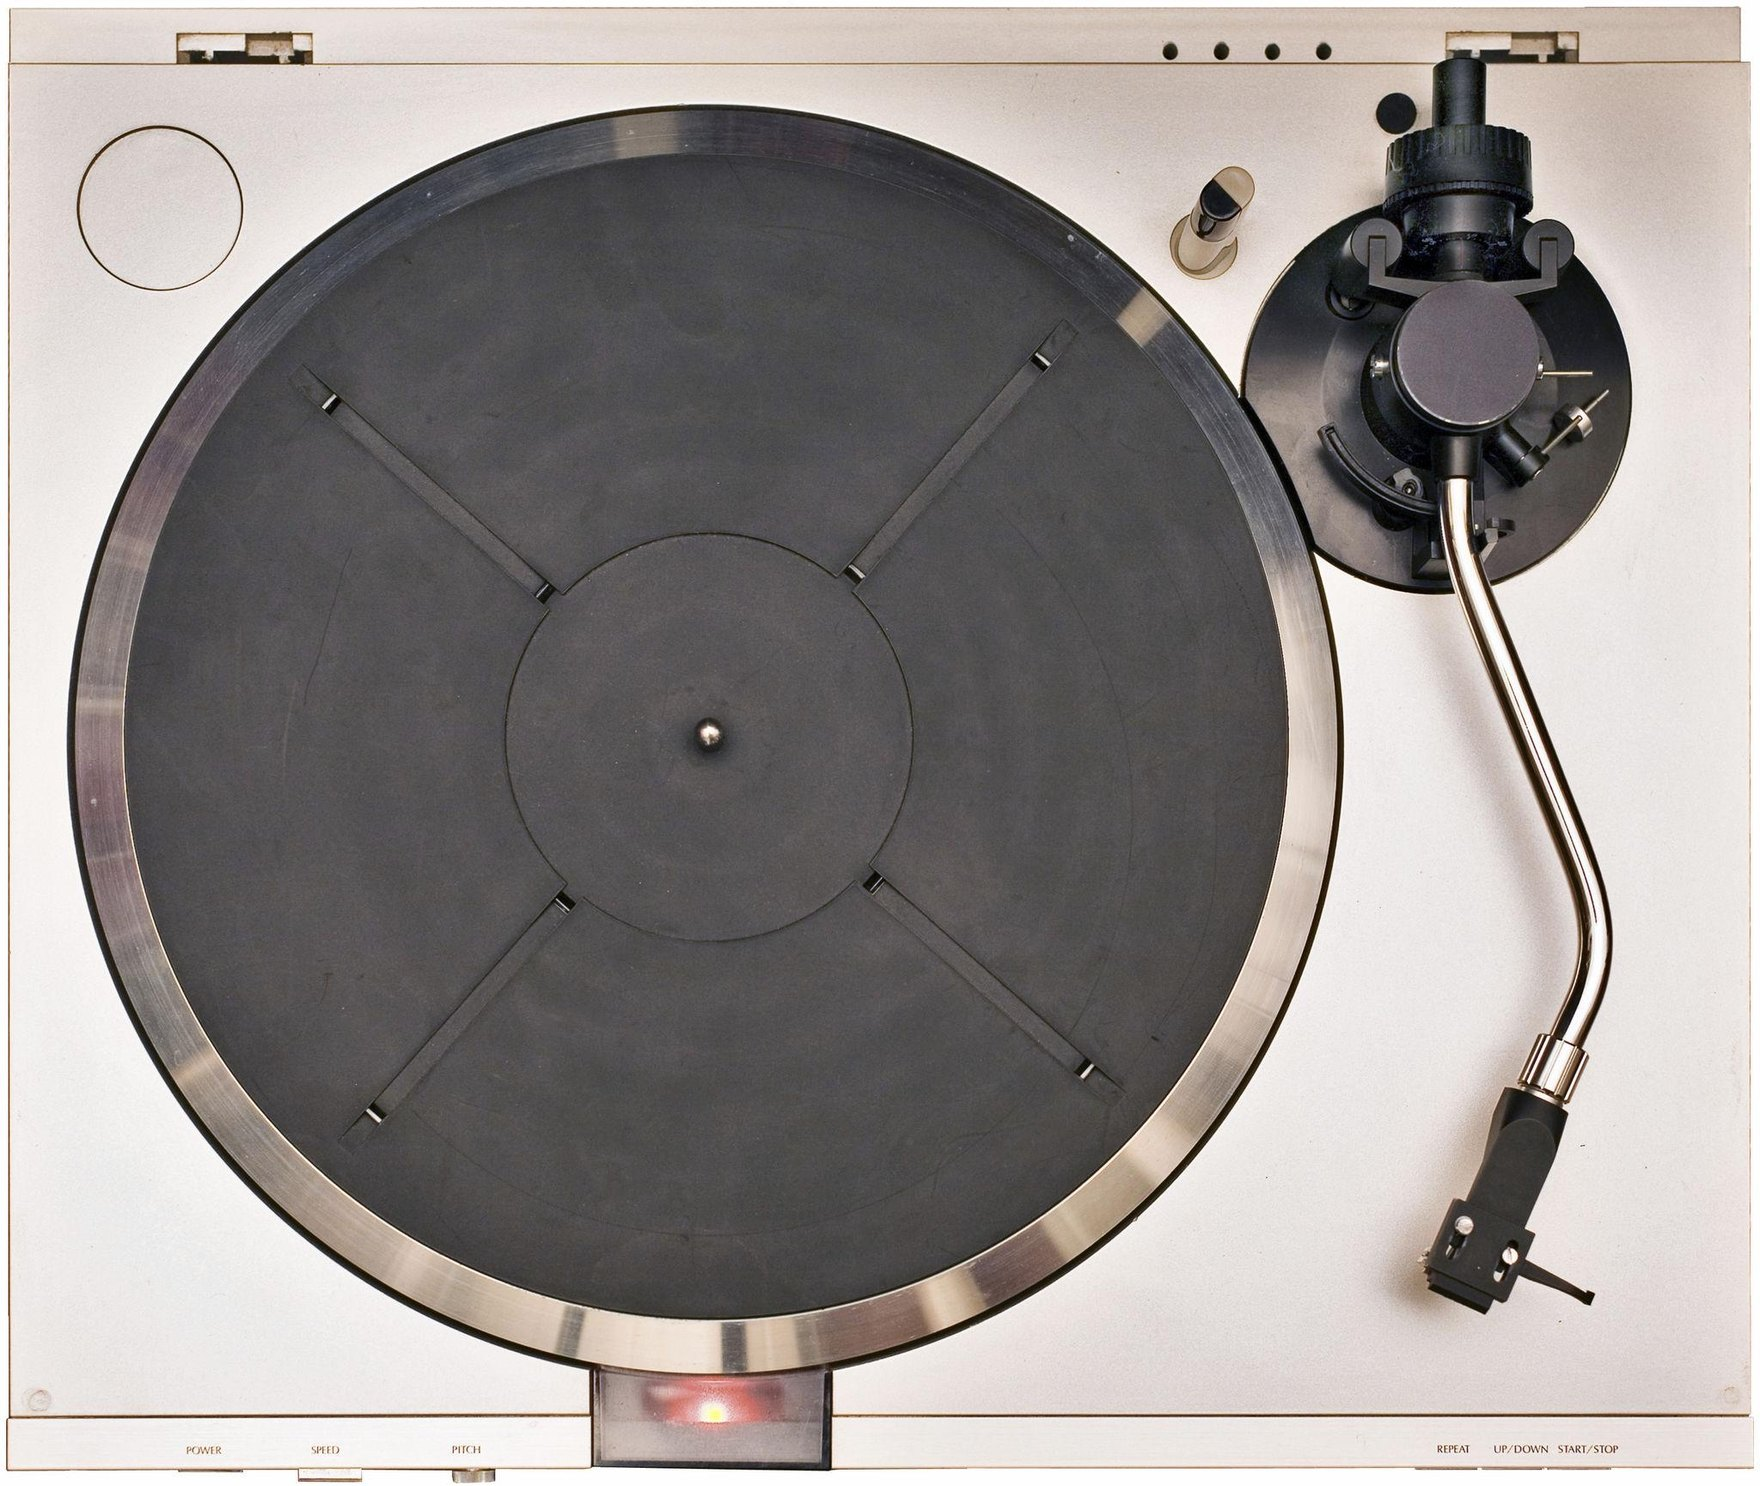
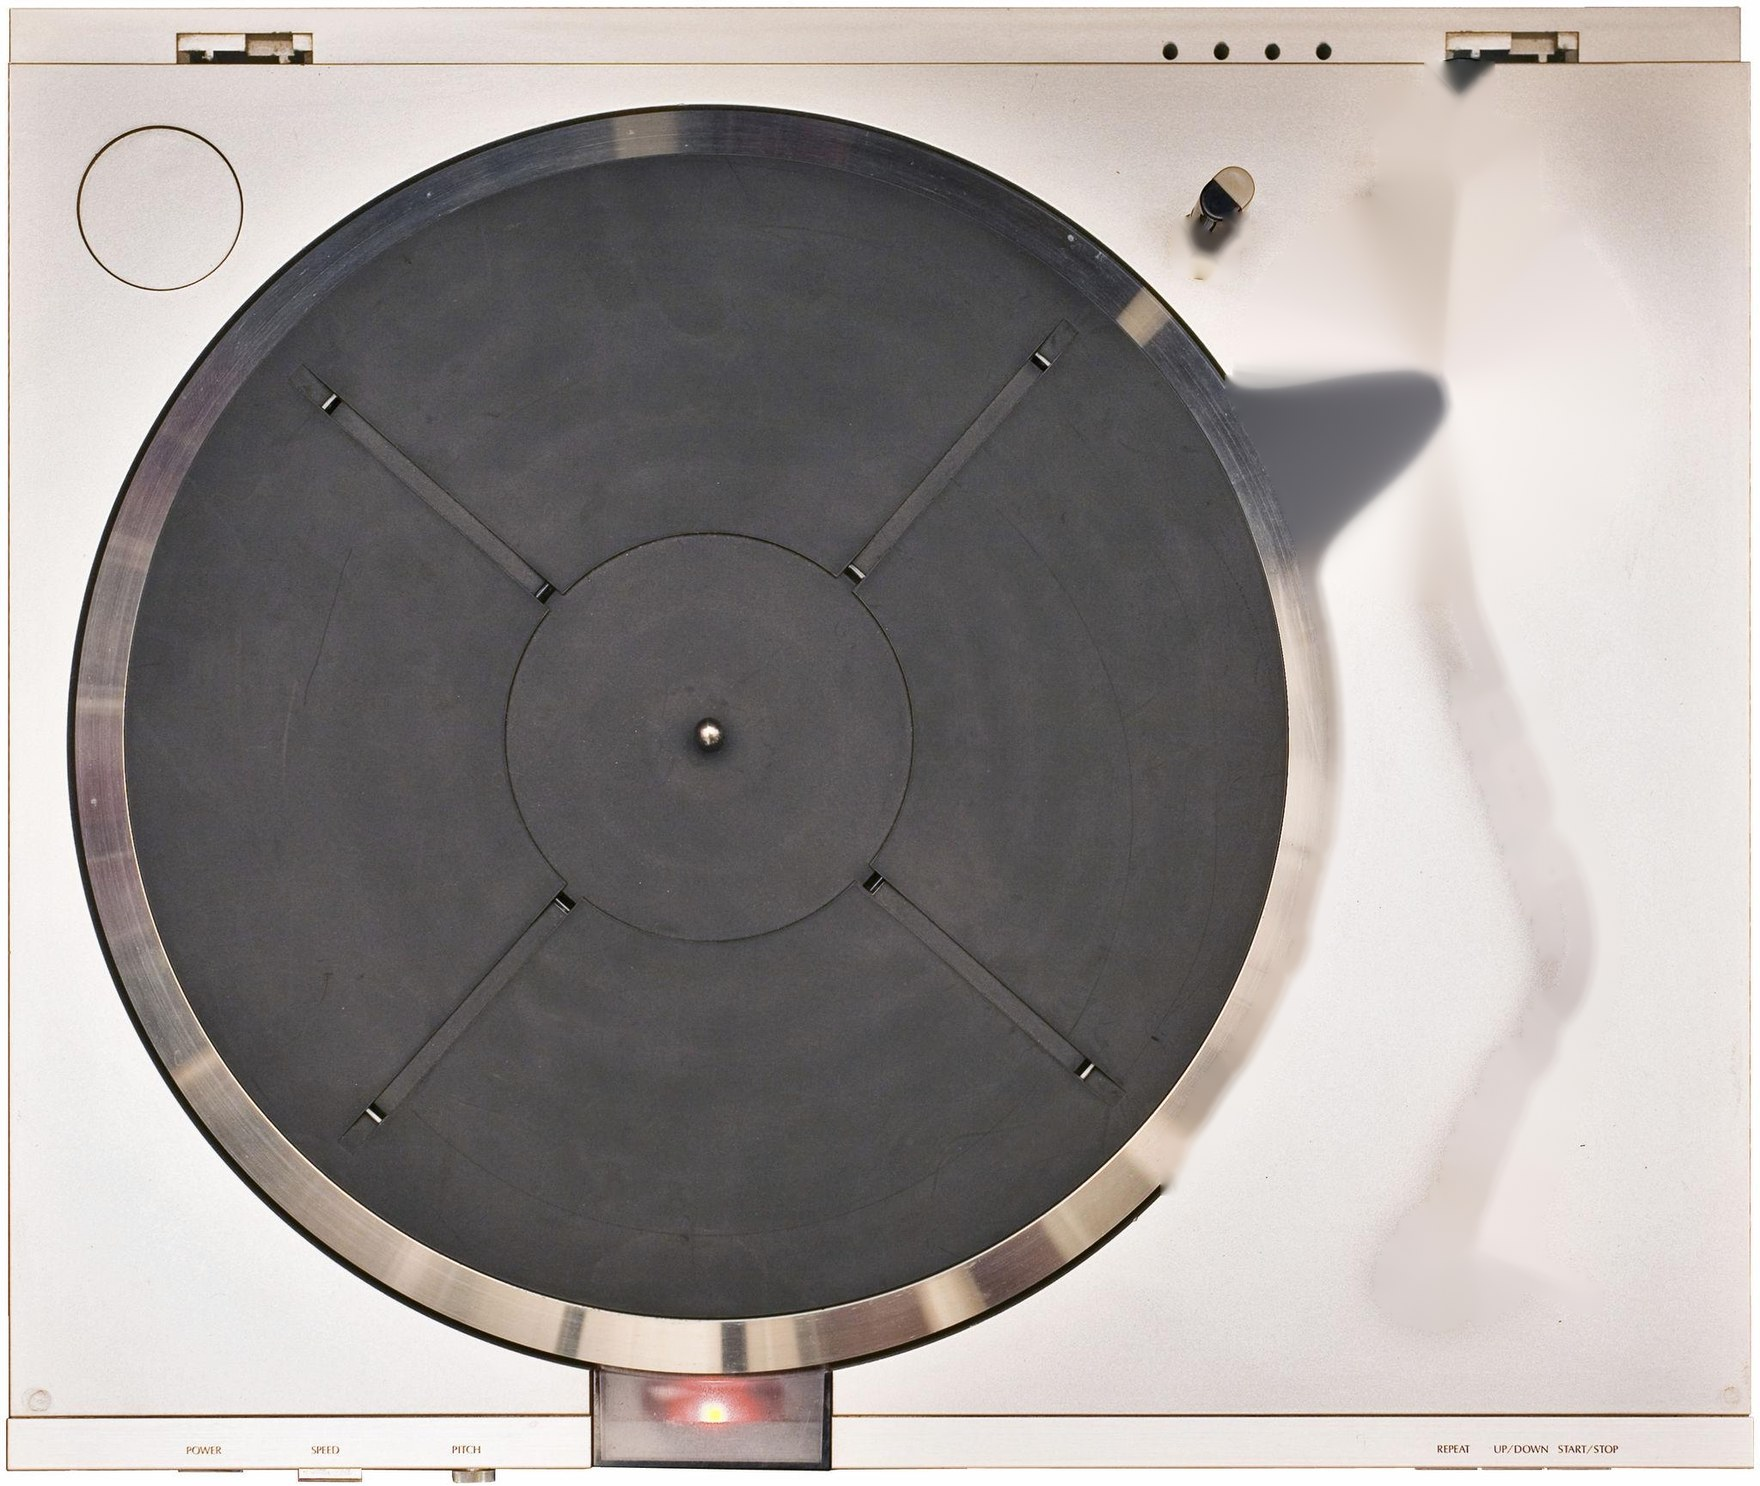
LP: 라벨 글자가 판과 함께 회전 + 톤암 인트로/아웃트로 모션
- 제목·트랙번호를 레코드 회전 변환 안에서 그려 판과 함께 돌아감
- Turntable 2에서 톤암을 분리(arm.png)하고 데크는 톤암·그림자를 인페인트로 제거
- 곡 시작 시 톤암이 레코드로 내려앉고(swing-in) 곡 끝나면 들려서 복귀(swing-out),
  피벗 기준 회전 + 큐잉 리프트 + 재생 중 안쪽 미세 드리프트
- sw 캐시 v9 + arm.png 프리캐시

Changed region(s): [[0.6562, 0.031, 0.9375, 0.8977]]

diff --git a/index.html b/index.html
@@ -5199,18 +5199,20 @@ function drawMediaClip(c,t,fx,p){
   if(R.preview) HIT.push({id:'mc:'+c.id, x:cx-dw/2, y:cy-dh/2, w:dw, h:dh});
 }
 
-/* ───────── LP 레코드 템플릿 (실사 사진: deck.jpg + 회전 vinyl.png) ───────── */
+/* ───────── LP 레코드 템플릿 (실사 사진: deck + 회전 vinyl + 움직이는 tonearm) ───────── */
 /* deck 정규좌표: 플래터 중심 (0.399,0.483) · 레코드 반경 0.335W · 라벨/레코드 비 0.393 */
 const LP_DECK={platX:0.399, platY:0.483, recR:0.335, labelRatio:0.393};
-let lpDeck=null, lpVinyl=null, lpLoad=null, lpFailed=false;
+/* 톤암 스프라이트: deck 정규좌표 배치 rect + 피벗 + 재생 시 회전각(도) */
+const LP_ARM={x0:0.6567, y0:0.0382, x1:0.9341, y1:0.8931, pvx:0.8203, pvy:0.2133, playDeg:41.5};
+let lpDeck=null, lpVinyl=null, lpArm=null, lpLoad=null, lpFailed=false;
 function ensureLP(){
   if(lpLoad) return lpLoad;
   lpLoad=(async()=>{
     try{
       const load=src=>new Promise((res,rej)=>{ const im=new Image();
         im.onload=()=>res(im); im.onerror=rej; im.src=src; });
-      const [d,v]=await Promise.all([load('deck.jpg'), load('vinyl.png')]);
-      lpDeck=d; lpVinyl=v;
+      const [d,v,arm]=await Promise.all([load('deck.jpg'), load('vinyl.png'), load('arm.png')]);
+      lpDeck=d; lpVinyl=v; lpArm=arm;
     }catch(e){ lpFailed=true; }
   })();
   return lpLoad;
@@ -5218,7 +5220,7 @@ function ensureLP(){
 function drawLP(t, c, idx, cs, a){
   const {g,w,h}=R;
   const title=c.title||(a?a.name:'');
-  if(!lpDeck||!lpVinyl){
+  if(!lpDeck||!lpVinyl||!lpArm){
     if(!lpFailed) ensureLP().then(()=>{ if(!state.playing&&!state.rendering) drawNow(); });
     drawLPFallback(t,c,idx,cs,title); return;
   }
@@ -5238,10 +5240,19 @@ function drawLP(t, c, idx, cs, a){
   const eOut=p=>{ p=clamp(p,0,1); return 1-Math.pow(1-p,3); };
   const IN=1.1, OUT=0.9, hasNext=idx<cs.length-1;
 
-  /* 레코드 교체 연출: 페이드 + 들어올림 + 살짝 확대 (데크·톤암은 사진 그대로 고정) */
+  /* 레코드 교체 연출: 페이드 + 들어올림 + 살짝 확대 */
   let recA=1, recLift=0, recS=1;
   if(lt<IN){ const p=eOut(lt/IN); recA=p; recLift=-(1-p)*recR*.45; recS=.92+.08*p; }
   if(hasNext && rem<OUT){ const p=eOut(1-rem/OUT); recA=1-p; recLift=-p*recR*.45; recS=1-.06*p; }
+
+  /* 톤암: 곡 시작 시 레코드로 내려앉고(swing-in), 곡 끝나면 들려서 복귀(swing-out) */
+  const IN_ARM=1.3, OUT_ARM=1.0;
+  let armFrac=1;                                       /* 0=대기(off), 1=재생(on record) */
+  if(lt<IN_ARM) armFrac=eOut(lt/IN_ARM);
+  if(rem<OUT_ARM) armFrac=Math.min(armFrac, eOut(rem/OUT_ARM));
+  const drift=1+.06*clamp(lt/dur,0,1);                 /* 재생 중 안쪽으로 미세 이동 */
+  const armDeg=LP_ARM.playDeg*armFrac*drift;
+  const armLift=(1-armFrac)*drawH*.012;                /* 들릴 때 살짝 위로 (큐잉) */
 
   const spin=t*3.49;                                  /* 33⅓ RPM */
   g.save();
@@ -5267,10 +5278,23 @@ function drawLP(t, c, idx, cs, a){
     sg.addColorStop(1,'rgba(255,255,255,0)');
     g.fillStyle=sg; g.fillRect(-rr,-rr,rr*2,rr*2);
     g.restore();
-    /* 라벨 위 제목 (수평 고정) */
-    if(state.showTitle){ g.save(); g.globalAlpha=recA;
-      drawLPTitle(g, pcx, cy, rr*LP_DECK.labelRatio, title, idx, cs.length); g.restore(); }
+    /* 라벨 위 제목 — LP와 함께 회전 */
+    if(state.showTitle){
+      g.save(); g.globalAlpha=recA;
+      g.translate(pcx,cy); g.rotate(spin); g.translate(-pcx,-cy);
+      drawLPTitle(g, pcx, cy, rr*LP_DECK.labelRatio, title, idx, cs.length);
+      g.restore();
+    }
   }
+  /* 톤암 (피벗 기준 회전 + 큐잉 리프트) — 레코드 위에 그림 */
+  const [ax0,ay0]=map(LP_ARM.x0,LP_ARM.y0);
+  const [apx,apy]=map(LP_ARM.pvx,LP_ARM.pvy);
+  const armW=(LP_ARM.x1-LP_ARM.x0)*drawW, armH=(LP_ARM.y1-LP_ARM.y0)*drawH;
+  g.save();
+  g.translate(0,-armLift);
+  g.translate(apx,apy); g.rotate(armDeg*Math.PI/180); g.translate(-apx,-apy);
+  g.drawImage(lpArm, ax0, ay0, armW, armH);
+  g.restore();
   g.restore();
   if(R.preview) HIT.push({id:'lp', x:pcx-recR, y:pcy-recR, w:recR*2, h:recR*2});
 }

diff --git a/sw.js b/sw.js
@@ -1,6 +1,6 @@
 /* PULSEORIGN STUDIO — Service Worker v3 */
-const CACHE = 'pulseorign-v8';
-const SHELL = ['./index.html', './manifest.json', './deck.jpg', './vinyl.png', './icons/icon-192.png', './icons/icon-512.png'];
+const CACHE = 'pulseorign-v9';
+const SHELL = ['./index.html', './manifest.json', './deck.jpg', './vinyl.png', './arm.png', './icons/icon-192.png', './icons/icon-512.png'];
 
 self.addEventListener('install', e => {
   e.waitUntil(caches.open(CACHE).then(c => c.addAll(SHELL)).then(() => self.skipWaiting()));